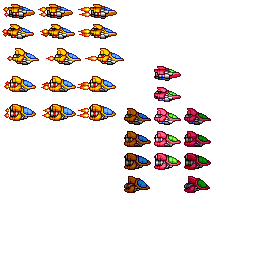
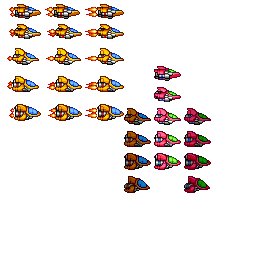
up animation propeller
need to modify the speed and loop only fire

Changed region(s): [[0.0, 0.0, 0.5, 0.1562], [0.0, 0.2812, 0.5, 0.375], [0.0, 0.4062, 0.5, 0.5]]

diff --git a/SDL_AndroDunos/ModulePlayer.cpp b/SDL_AndroDunos/ModulePlayer.cpp
@@ -15,9 +15,13 @@ ModulePlayer::ModulePlayer()
 	idle.PushBack({ 42,48,39,17 });
 	idle.PushBack({ 85,48,39,17 });
 
-	up.PushBack({ 3,87,27,15 });
-	up.PushBack({ 94,66,27,15 });
-	up.speed = 0.02f;
+	up.PushBack({ 85,24,39,15 });
+	up.PushBack({ 43,66,39,15 });
+	up.PushBack({ 2,24,39,15 });
+	up.PushBack({ 2,4,39,15 });
+	up.PushBack({ 41,4,39,15 });
+	up.PushBack({ 85,4,39,15 });
+	up.speed = 0.7f;
 
 	down.PushBack({ 94,131,27,16 });
 	down.PushBack({ 94,153,27,17 });
